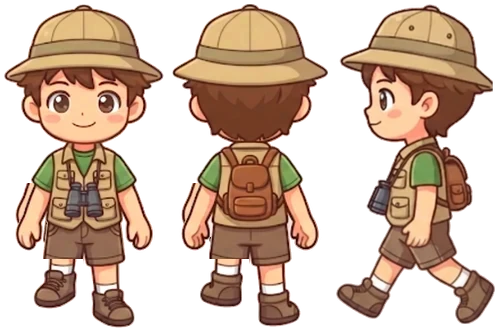
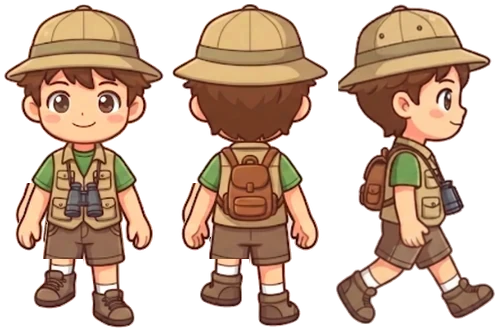
탐험가 걷는 방향 고치기, 레이서 여자아이 걷는 자세 다시 받기(얼굴과 다리 방향 맞춤)

Changed region(s): [[0.6613, 0.0, 0.992, 0.994]]

diff --git a/js/data/character-sprites.js b/js/data/character-sprites.js
@@ -564,10 +564,10 @@ window.MP_CHAR_SPRITES = {
     "right": [
      461,
      4,
-     168,
-     291,
-     113.0,
-     291
+     167,
+     290,
+     109.4,
+     290
     ],
     "up": [
      233,
@@ -914,7 +914,7 @@ window.MP_CHAR_SPRITES = {
      4,
      159,
      320,
-     95.9,
+     76.1,
      320
     ],
     "up": [

diff --git a/tools/build_walk.py b/tools/build_walk.py
@@ -24,7 +24,7 @@ LEGS = ['F1', 'F2', 'R1b', 'R1g', 'R2b', 'R2g', 'R3b', 'R3g', 'R4b', 'R4g', 'R6b
 # 옆모습 원본을 색 보정 전 그림으로 받은 캐릭터(이것만 enhance). 나머지는 이미 진하게 만든 그림을 올려 받음
 RAW_SIDE = {'F1', 'F2'}
 # 제미나이가 오른쪽을 보게 그려 준 옆모습(뒤집지 않음)
-SIDE_RIGHT = {'R4g'}
+SIDE_RIGHT = {'S1', 'R4g'}
 
 
 def crop_alpha(rgba):
